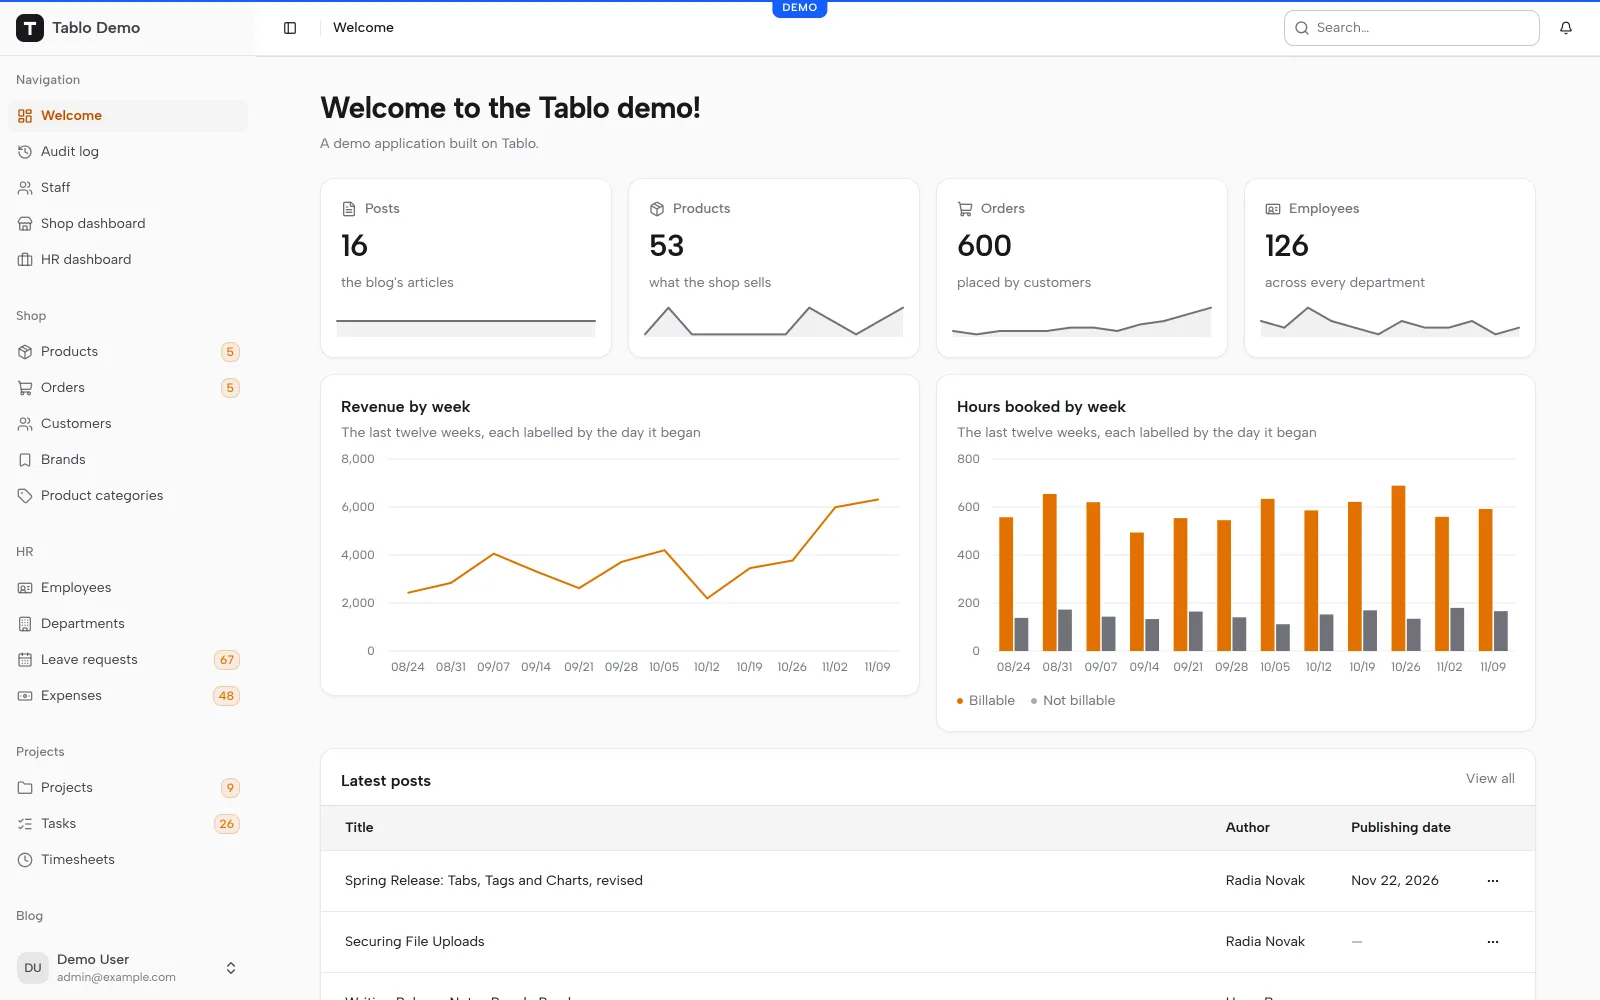
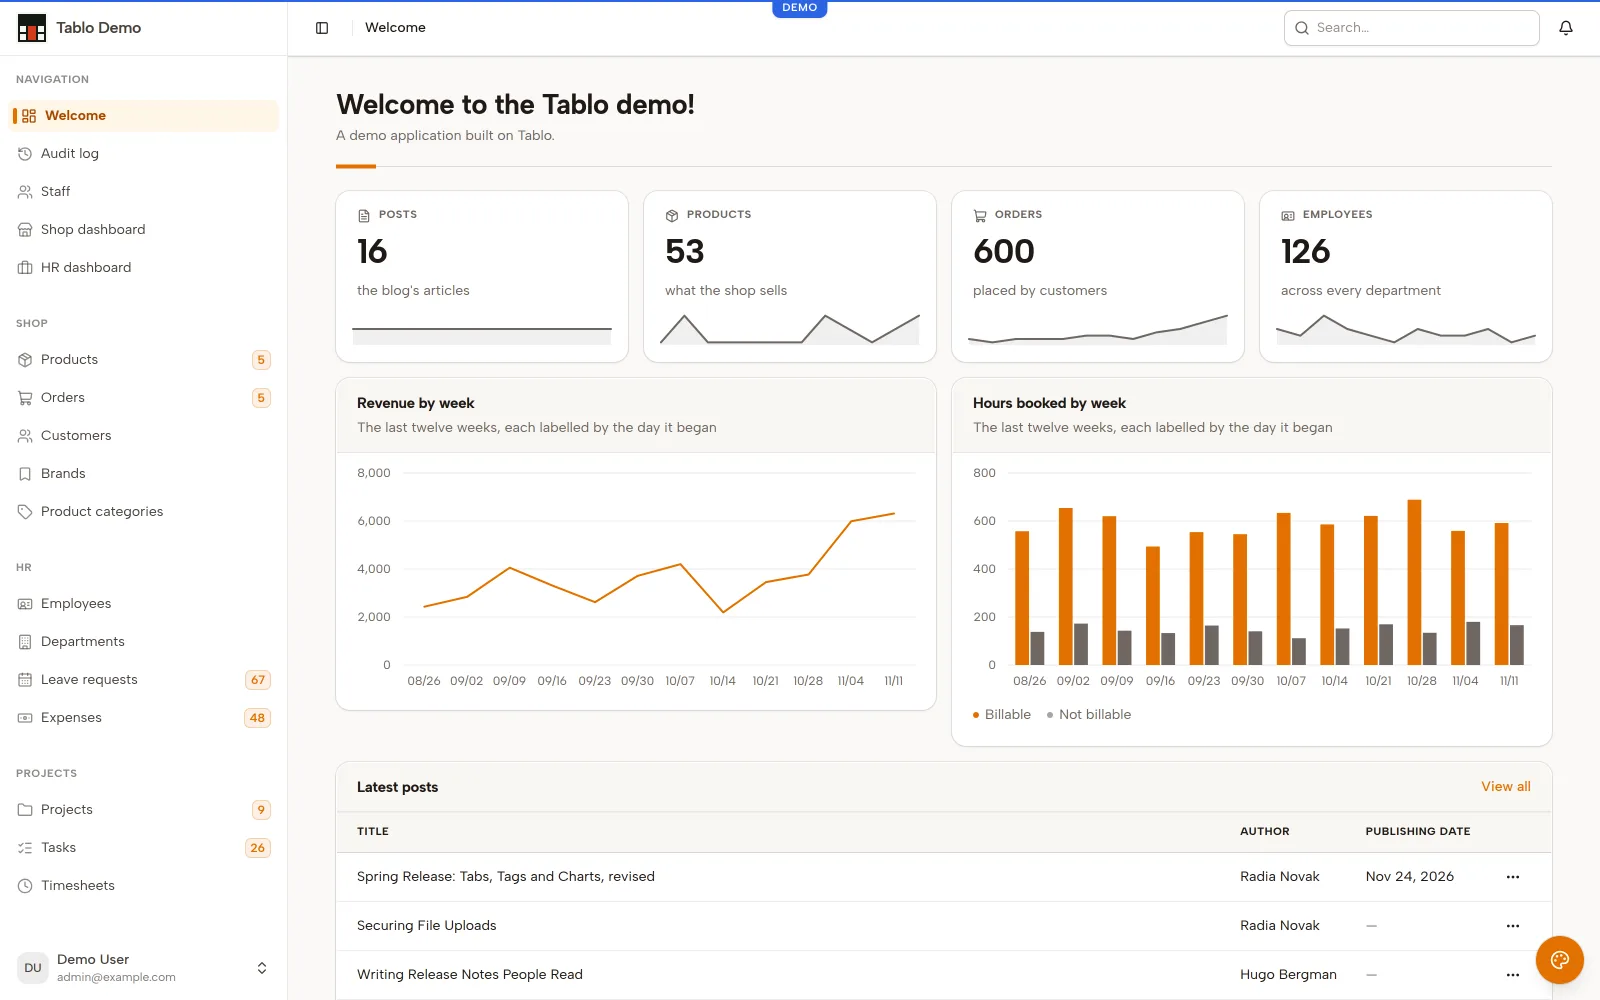
docs(site): show Ledger in the site's shots and add it to the Themes section
The demo now wears Ledger, the site's own theme, so every UI shot on the landing page shows it:
the post list behind the hero's callouts, the form, the audit log and two-factor sign-in, with the
callouts moved to where the shot puts each control. The Themes section offers five looks, Ledger
first and shown by default, each with a fresh shot of the demo's panel home in light and dark,
and each swatch says what its theme looks like now. The examples gallery shows the demo in
Ledger, and the capture script takes Ledger's pair with the others.

diff --git a/site/index.html b/site/index.html
@@ -72,13 +72,13 @@
           <div class="pins-shot">
             <div class="shot">
               <img src="assets/captures/posts.webp" width="1800" height="1213" alt="The demo's post list: a Create Post button, published and draft counts, a search box, column and filter menus, and a table of posts with image, title, author, status, tags and publishing date.">
-              <span class="pin" data-pin="create" data-n="1" style="left:85.64%;top:9.78%;width:9.87%;height:4%"></span>
-              <span class="pin" data-pin="widget" data-n="2" style="left:4.49%;top:16.44%;width:91.02%;height:15.11%"></span>
-              <span class="pin" data-pin="search" data-n="3" style="left:6.36%;top:34.78%;width:21.56%;height:4%"></span>
-              <span class="pin" data-pin="sort" data-n="4" style="left:12.98%;top:40.22%;width:24.98%;height:4.69%"></span>
-              <span class="pin" data-pin="author" data-n="5" style="left:37.96%;top:44.91%;width:9.39%;height:6.78%"></span>
-              <span class="pin" data-pin="filters" data-n="6" style="left:86.45%;top:34.78%;width:7.18%;height:4%"></span>
-              <span class="pin" data-pin="action" data-n="7" style="left:90.94%;top:46.3%;width:2.69%;height:4%"></span>
+              <span class="pin" data-pin="create" data-n="1" style="left:85.4%;top:9.78%;width:10.94%;height:4%"></span>
+              <span class="pin" data-pin="widget" data-n="2" style="left:3.66%;top:18.78%;width:92.68%;height:17.35%"></span>
+              <span class="pin" data-pin="search" data-n="3" style="left:5.26%;top:39.35%;width:21.95%;height:4%"></span>
+              <span class="pin" data-pin="sort" data-n="4" style="left:12.04%;top:44.8%;width:24.72%;height:4.44%"></span>
+              <span class="pin" data-pin="author" data-n="5" style="left:36.75%;top:49.24%;width:9.68%;height:5.44%"></span>
+              <span class="pin" data-pin="filters" data-n="6" style="left:86.28%;top:39.35%;width:8.46%;height:4%"></span>
+              <span class="pin" data-pin="action" data-n="7" style="left:92%;top:49.96%;width:2.74%;height:4%"></span>
             </div>
             <div class="pin-dots" role="group" aria-label="Callouts">
               <button type="button" data-pin="create" aria-pressed="false">1</button>
@@ -111,7 +111,7 @@
     <div class="ld-cells ld-cells-4 figs">
       <div class="ld-cell"><span class="fig-n">0</span><span class="fig-t">lines of JavaScript to write or bundle. The pages are HTML from the server.</span></div>
       <div class="ld-cell"><span class="fig-n">5.8<small>ms</small></span><span class="fig-t">median for the demo's post list, signed in, rendered whole. <a class="ld-link" href="#speed">How we measured</a></span></div>
-      <div class="ld-cell"><span class="fig-n">4</span><span class="fig-t">themes, each in light and dark, and your own tokens on top.</span></div>
+      <div class="ld-cell"><span class="fig-n">5</span><span class="fig-t">themes, each in light and dark, and your own tokens on top.</span></div>
       <div class="ld-cell"><span class="fig-n">22</span><span class="fig-t">resources in the demo: a shop, HR, projects and a blog, on one panel.</span></div>
     </div>
   </div>
@@ -137,7 +137,7 @@ struct PostForm { title: String, … }</code></td></tr>
 .field_access(…)</code></td></tr>
         <tr><td data-th="Concern">Tenancy</td><td data-th="You build">A tenant filter on every query, a guard on every write, a team switcher</td><td data-th="You write"><code class="snip">.tenancy(<i>Tenancy::column(lens!(Post.team_id))</i>)</code></td></tr>
         <tr><td data-th="Concern">Audit</td><td data-th="You build">A trail table, a hook in each write's transaction, a diff of the fields, a page to read it</td><td data-th="You write"><code class="snip">panel<i>.audit_log(|log| log)</i></code></td></tr>
-        <tr><td data-th="Concern">Look</td><td data-th="You build">A design system, dark mode, a shell with navigation, global search, notifications</td><td data-th="You write"><code class="snip">Brand::new("Acme")<i>.theme(Theme::Iris)</i></code></td></tr>
+        <tr><td data-th="Concern">Look</td><td data-th="You build">A design system, dark mode, a shell with navigation, global search, notifications</td><td data-th="You write"><code class="snip">Brand::new("Acme")<i>.theme(Theme::Ledger)</i></code></td></tr>
         <tr><td data-th="Concern">Languages</td><td data-th="You build">Every label, message and mail, in each language, with the reader's pick remembered</td><td data-th="You write"><code class="snip"><span class="gone">nothing: English and French ship, and</span> .locales(…) <span class="gone">picks</span></code></td></tr>
         <tr><td data-th="Concern">Tests</td><td data-th="You build">A client that signs in, carries the CSRF pair and reads rows back out of the HTML</td><td data-th="You write"><code class="snip">client<i>.submit("/admin/posts/-/create", body)</i></code></td></tr>
       </tbody>
@@ -233,16 +233,17 @@ struct PostForm { title: String, … }</code></td></tr>
 <section class="ld-row" id="themes" aria-labelledby="h-themes">
   <div class="ld-num">07</div>
   <div class="ld-body">
-    <div class="ld-head"><span>Themes</span><span>One line, four looks, two schemes</span></div>
+    <div class="ld-head"><span>Themes</span><span>One line, five looks, two schemes</span></div>
     <div class="themes" data-themes>
       <div class="themes-pick">
         <h2 class="ld-h2" id="h-themes">Pick a look. Keep your tokens.</h2>
-        <p class="ld-text">Each theme sets colors, radii and the sidebar's frame. Redeclare any token in your stylesheet to make it yours.</p>
+        <p class="ld-text">Every theme speaks one grammar: captions in small capitals, ruled heads, the current page notched in the primary, a highlighter on what you point at. Each sets it in its own voice. Redeclare any token in your stylesheet to make it yours.</p>
         <div class="swatches" role="group" aria-label="Theme">
-          <button class="swatch" type="button" data-theme="jade" aria-pressed="true"><i style="background:#047857"></i><b>Jade</b><small>Tablo's own: jade on cool neutrals, the page inset in the sidebar.</small></button>
-          <button class="swatch" type="button" data-theme="amber" aria-pressed="false"><i style="background:#f59e0b"></i><b>Amber</b><small>Amber on plain grays, a white sidebar ruled off, rounder cards.</small></button>
-          <button class="swatch" type="button" data-theme="graphite" aria-pressed="false"><i style="background:#18181b"></i><b>Graphite</b><small>Black and white, square corners, a charcoal sidebar.</small></button>
-          <button class="swatch" type="button" data-theme="iris" aria-pressed="false"><i style="background:#594ddc"></i><b>Iris</b><small>Violet on tinted grays, rounder still, the sidebar floating.</small></button>
+          <button class="swatch" type="button" data-theme="ledger" aria-pressed="true"><i style="background:#d33c1c"></i><b>Ledger</b><small>This site as a panel: ink on pale green paper, square corners, numbered groups, stamped buttons.</small></button>
+          <button class="swatch" type="button" data-theme="jade" aria-pressed="false"><i style="background:#047857"></i><b>Jade</b><small>Quiet: jade on cool neutrals, the page a white sheet inset in the sidebar.</small></button>
+          <button class="swatch" type="button" data-theme="amber" aria-pressed="false"><i style="background:#f59e0b"></i><b>Amber</b><small>Warm stone and amber, bold titles, the current page an amber plate.</small></button>
+          <button class="swatch" type="button" data-theme="graphite" aria-pressed="false"><i style="background:#18181b"></i><b>Graphite</b><small>Black and white, flat, monospaced captions, gridded tables, a charcoal sidebar.</small></button>
+          <button class="swatch" type="button" data-theme="iris" aria-pressed="false"><i style="background:#594ddc"></i><b>Iris</b><small>Violet on tinted grays, pills and soft shadows, the sidebar floating.</small></button>
         </div>
         <div class="scheme" role="group" aria-label="Color scheme">
           <button type="button" data-dark="false" aria-pressed="true">Light</button>
@@ -251,10 +252,10 @@ struct PostForm { title: String, … }</code></td></tr>
       </div>
       <div class="themes-view">
         <figure class="ld-capture">
-          <figcaption><span data-theme-name>Jade, light</span><span>The demo's panel home</span></figcaption>
-          <img data-theme-shot src="assets/captures/theme-jade-light.webp" width="1600" height="1000" loading="lazy" alt="The demo's panel home in the Jade theme: record counts with sparklines, revenue and hours charts, and the latest posts.">
+          <figcaption><span data-theme-name>Ledger, light</span><span>The demo's panel home</span></figcaption>
+          <img data-theme-shot src="assets/captures/theme-ledger-light.webp" width="1600" height="1000" loading="lazy" alt="The demo's panel home in the Ledger theme: record counts with sparklines, revenue and hours charts, and the latest posts.">
         </figure>
-<pre class="ld-code" aria-label="The brand declaration"><span><span class="t">Panel</span>::new(<span class="s">"admin"</span>).brand(<span class="t">Brand</span>::new(<span class="s">"Acme"</span>).theme(<span class="t">Theme</span>::<b data-theme-code>Jade</b>))</span></pre>
+<pre class="ld-code" aria-label="The brand declaration"><span><span class="t">Panel</span>::new(<span class="s">"admin"</span>).brand(<span class="t">Brand</span>::new(<span class="s">"Acme"</span>).theme(<span class="t">Theme</span>::<b data-theme-code>Ledger</b>))</span></pre>
       </div>
     </div>
   </div>

diff --git a/site/assets/site.js b/site/assets/site.js
@@ -85,7 +85,7 @@ for (const block of document.querySelectorAll("[data-themes]")) {
   const shot = block.querySelector("[data-theme-shot]");
   const name = block.querySelector("[data-theme-name]");
   const code = block.querySelector("[data-theme-code]");
-  const state = { theme: "jade", dark: false };
+  const state = { theme: "ledger", dark: false };
   const title = (s) => s[0].toUpperCase() + s.slice(1);
   const render = () => {
     const file = `assets/captures/theme-${state.theme}-${state.dark ? "dark" : "light"}.webp`;
@@ -102,11 +102,11 @@ for (const block of document.querySelectorAll("[data-themes]")) {
   };
   for (const b of block.querySelectorAll("[data-theme]")) b.addEventListener("click", () => { state.theme = b.dataset.theme; render(); });
   for (const b of block.querySelectorAll("[data-dark]")) b.addEventListener("click", () => { state.dark = b.dataset.dark === "true"; render(); });
-  // Fetch the other seven shots once the block is near, so a switch shows at once.
+  // Fetch the other nine shots once the block is near, so a switch shows at once.
   new IntersectionObserver(([entry], observer) => {
     if (!entry.isIntersecting) return;
     observer.disconnect();
-    for (const t of ["jade", "amber", "graphite", "iris"]) for (const s of ["light", "dark"]) new Image().src = `assets/captures/theme-${t}-${s}.webp`;
+    for (const t of ["ledger", "jade", "amber", "graphite", "iris"]) for (const s of ["light", "dark"]) new Image().src = `assets/captures/theme-${t}-${s}.webp`;
   }, { rootMargin: "400px" }).observe(block);
 }
 

diff --git a/site/examples/index.html b/site/examples/index.html
@@ -62,7 +62,7 @@
 
       <article class="ld-cell entry" data-tags="live">
         <div class="work">
-          <a class="work-shot" href="https://demo.tablo.y-l.fr" tabindex="-1" aria-hidden="true"><img src="../assets/captures/theme-jade-light.webp" width="1600" height="1000" loading="lazy" alt=""></a>
+          <a class="work-shot" href="https://demo.tablo.y-l.fr" tabindex="-1" aria-hidden="true"><img src="../assets/captures/theme-ledger-light.webp" width="1600" height="1000" loading="lazy" alt=""></a>
           <div class="work-body">
             <span class="ld-label"><span>Live</span><span>y-l-g/tablo-demo</span></span>
             <h2 class="ld-h3">Tablo demo</h2>
